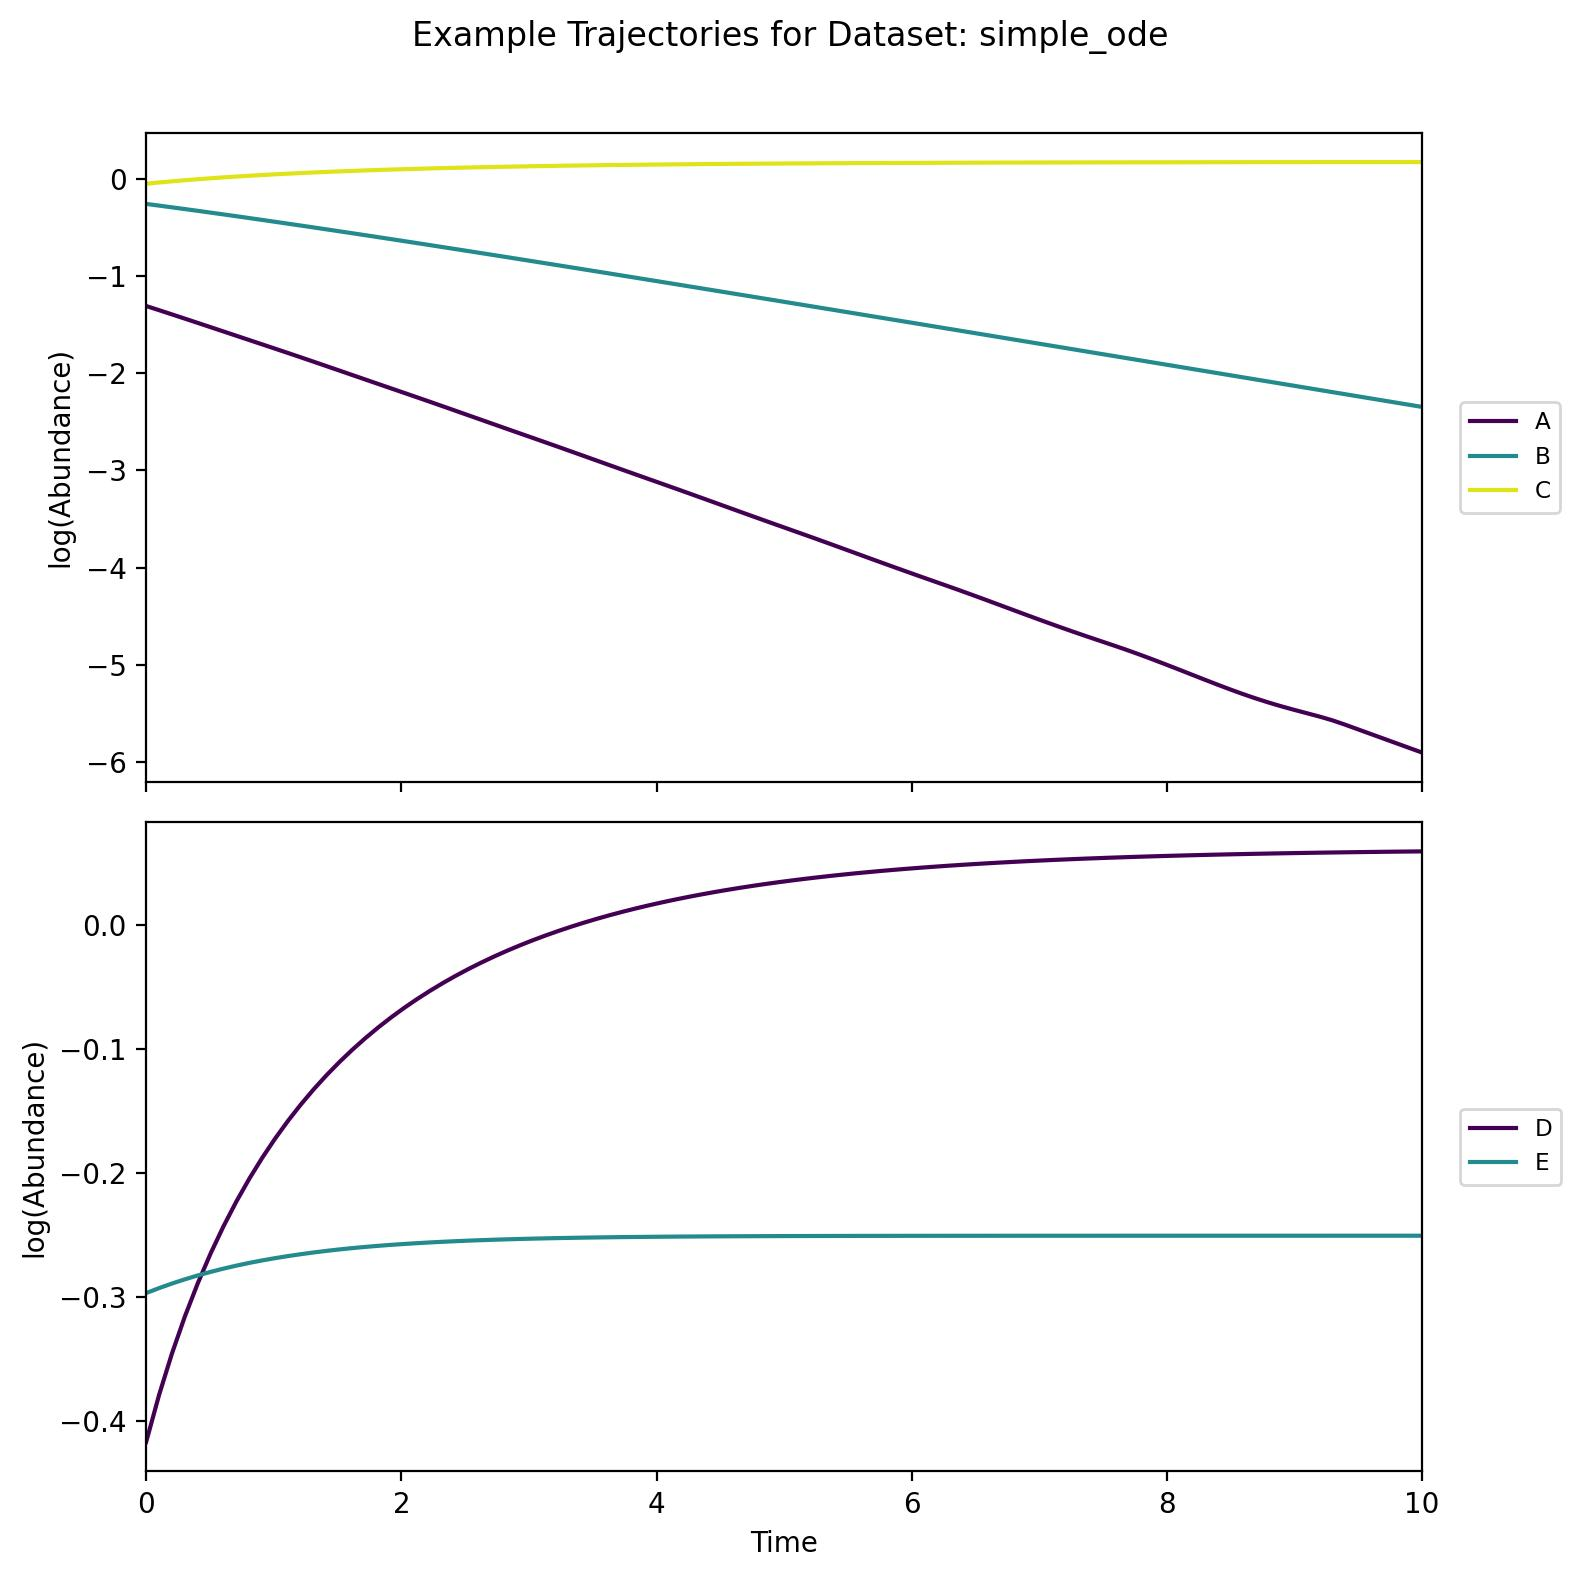
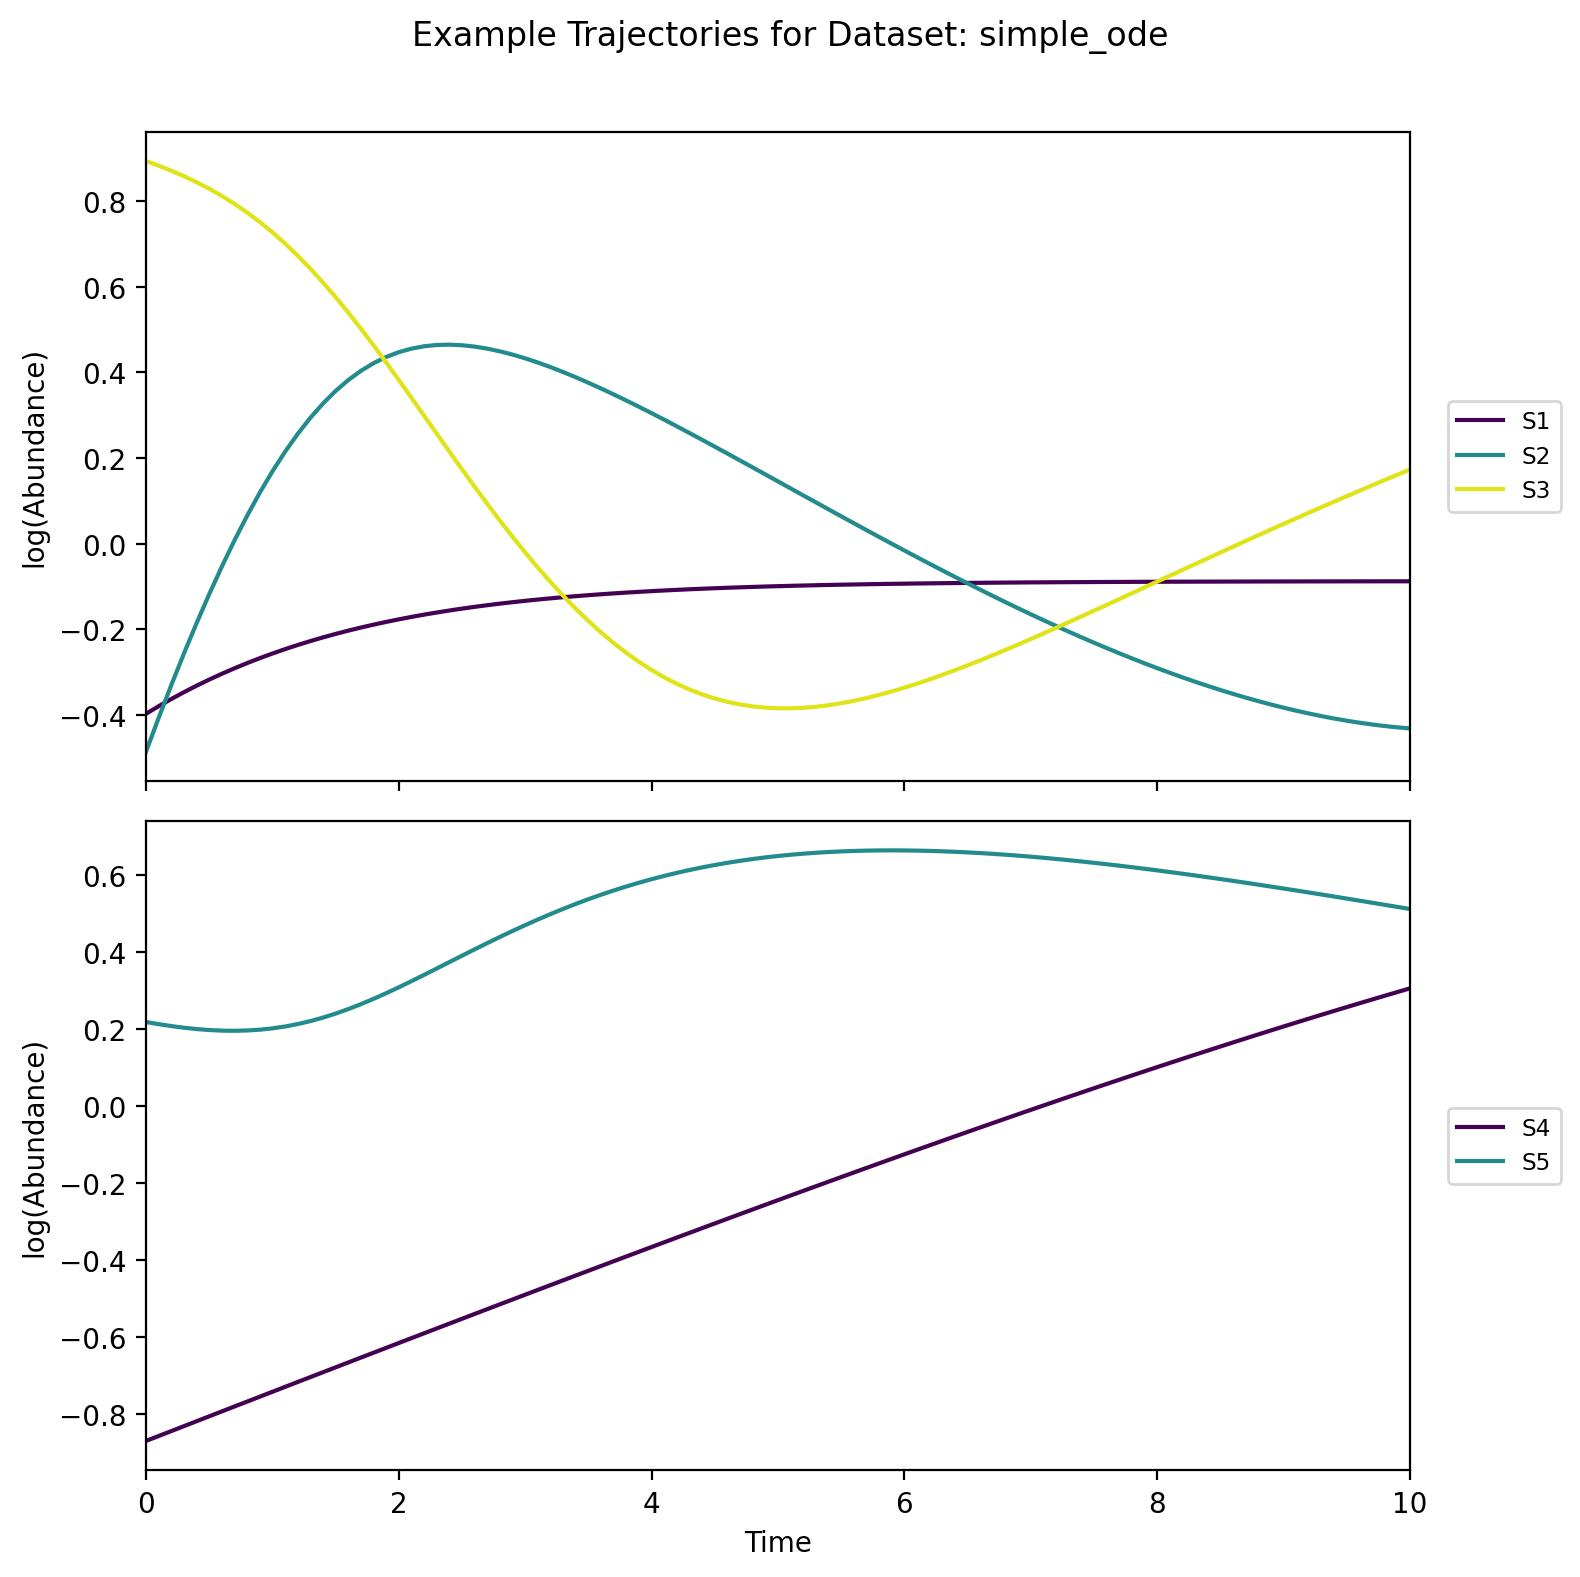
Add new simple_ode dataset

diff --git a/datasets/_data_generation/odes.py b/datasets/_data_generation/odes.py
@@ -3,14 +3,12 @@ from typing import Any, Dict
 import numpy as np
 
 
-def lotka_volterra(t: float, n: np.ndarray) -> np.ndarray:
+def lotka_volterra(n: np.ndarray) -> np.ndarray:
     """
     Defines the Lotka-Volterra predator-prey model with three predators and three prey.
 
     Parameters
     ----------
-    t : float
-        Current time.
     n : np.ndarray
         Current populations [p1, p2, p3, q1, q2, q3].
 
@@ -33,14 +31,12 @@ def lotka_volterra(t: float, n: np.ndarray) -> np.ndarray:
     return derivatives
 
 
-def reaction_backup(t: float, n: np.ndarray) -> np.ndarray:
+def reaction_backup(n: np.ndarray) -> np.ndarray:
     """
     Defines a simple chemical reaction system.
 
     Parameters
     ----------
-    t : float
-        Current time.
     n : np.ndarray
         Current concentrations [s1, s2, s3, s4, s5].
 
@@ -116,6 +112,51 @@ def reaction(t: float, n: np.ndarray) -> np.ndarray:
     ds5_dt = rate3 - rate4
 
     # Return derivatives
+    return np.array([ds1_dt, ds2_dt, ds3_dt, ds4_dt, ds5_dt])
+
+
+import numpy as np
+
+
+def simple_ode(t: float, n: np.ndarray) -> np.ndarray:
+    """
+    Defines a numerically stable, non-conservative ODE system with interesting but controlled dynamics.
+
+    Parameters
+    ----------
+    n : np.ndarray
+        Current state [s1, s2, s3, s4, s5].
+
+    Returns
+    -------
+    np.ndarray
+        Derivatives [ds1/dt, ds2/dt, ds3/dt, ds4/dt, ds5/dt].
+    """
+    s1, s2, s3, s4, s5 = n
+
+    # Rate constants
+    k1, k2, k3, k4 = 0.7, 0.3, 0.4, 0.2
+    k5, k6 = 0.25, 0.15  # Decay terms
+    influx = 0.1  # Constant mass influx
+
+    # Interaction terms (simplified)
+    rate1 = k1 * s1 * (1 - s1)  # Logistic-like self-regulation
+    rate2 = k2 * s2 * s3  # Simple interaction between s2 and s3
+    rate3 = k3 * s4 * (1 - 0.1 * s4)  # Mild quadratic feedback for saturation
+    rate4 = k4 * s5 * s2  # Interaction between s5 and s2
+    rate5 = k3 * s4
+
+    # Loss terms
+    decay1 = k5 * s1
+    decay2 = k6 * s3
+
+    # System equations (mass is not conserved)
+    ds1_dt = influx + rate1 - decay1  # s1 has an external source and self-regulation
+    ds2_dt = rate2 - 0.5 * s2  # s2 grows via interaction with s3 and has linear damping
+    ds3_dt = -rate2 + rate5 - decay2  # s3 is consumed by s2 but replenished by s4
+    ds4_dt = rate3 - 0.1 * s4  # Simple growth and decay for stability
+    ds5_dt = rate4 - 0.2 * s5  # Simple linear decay
+
     return np.array([ds1_dt, ds2_dt, ds3_dt, ds4_dt, ds5_dt])
 
 
@@ -272,6 +313,22 @@ FUNCS: Dict[str, Dict[str, Any]] = {
                 (-1, 1),  # v3
                 (-1, 1),  # v4
                 (-1, 1),  # v5
+            ],
+        },
+    },
+    "simple_ode": {
+        "func": simple_ode,
+        "tsteps": np.linspace(0, 10, 101),
+        "ndim": 5,
+        "labels": ["S1", "S2", "S3", "S4", "S5"],
+        "sampling": {
+            "space": "log",  # Options: 'linear', 'log'
+            "bounds": [
+                (0.1, 10.0),  # S1
+                (0.1, 10.0),  # S2
+                (0.1, 10.0),  # S3
+                (0.1, 10.0),  # S4
+                (0.1, 10.0),  # S5
             ],
         },
     },

diff --git a/datasets/_data_generation/generate_data.py b/datasets/_data_generation/generate_data.py
@@ -345,14 +345,14 @@ def parse_args() -> ArgumentParser:
         "-f",
         type=str,
         choices=FUNCS.keys(),
-        default="nonlinear_oscillators",
+        default="simple_ode",
         help=f"Name of the function to generate data for (default: 'lotka_volterra'). Choices: {list(FUNCS.keys())}.",
     )
     parser.add_argument(
         "--name",
         "-n",
         type=str,
-        default="oscillators",
+        default="simple_ode",
         help="Name of the dataset (default: 'lotka_volterra_new').",
     )
     parser.add_argument(

diff --git a/datasets/_data_analysis/analyse_all_datasets.py b/datasets/_data_analysis/analyse_all_datasets.py
@@ -27,10 +27,10 @@ def main():
     Main function to analyse the dataset. It checks the dataset and loads the data.
     """
     datasets = [
+        "simple_ode",
         "coupled_oscillators",
         "simple_reaction",
         "osu2008",
-        "simple_ode",
         "simple_primordial",
         "lotka_volterra",
         "branca_large_kyr",
